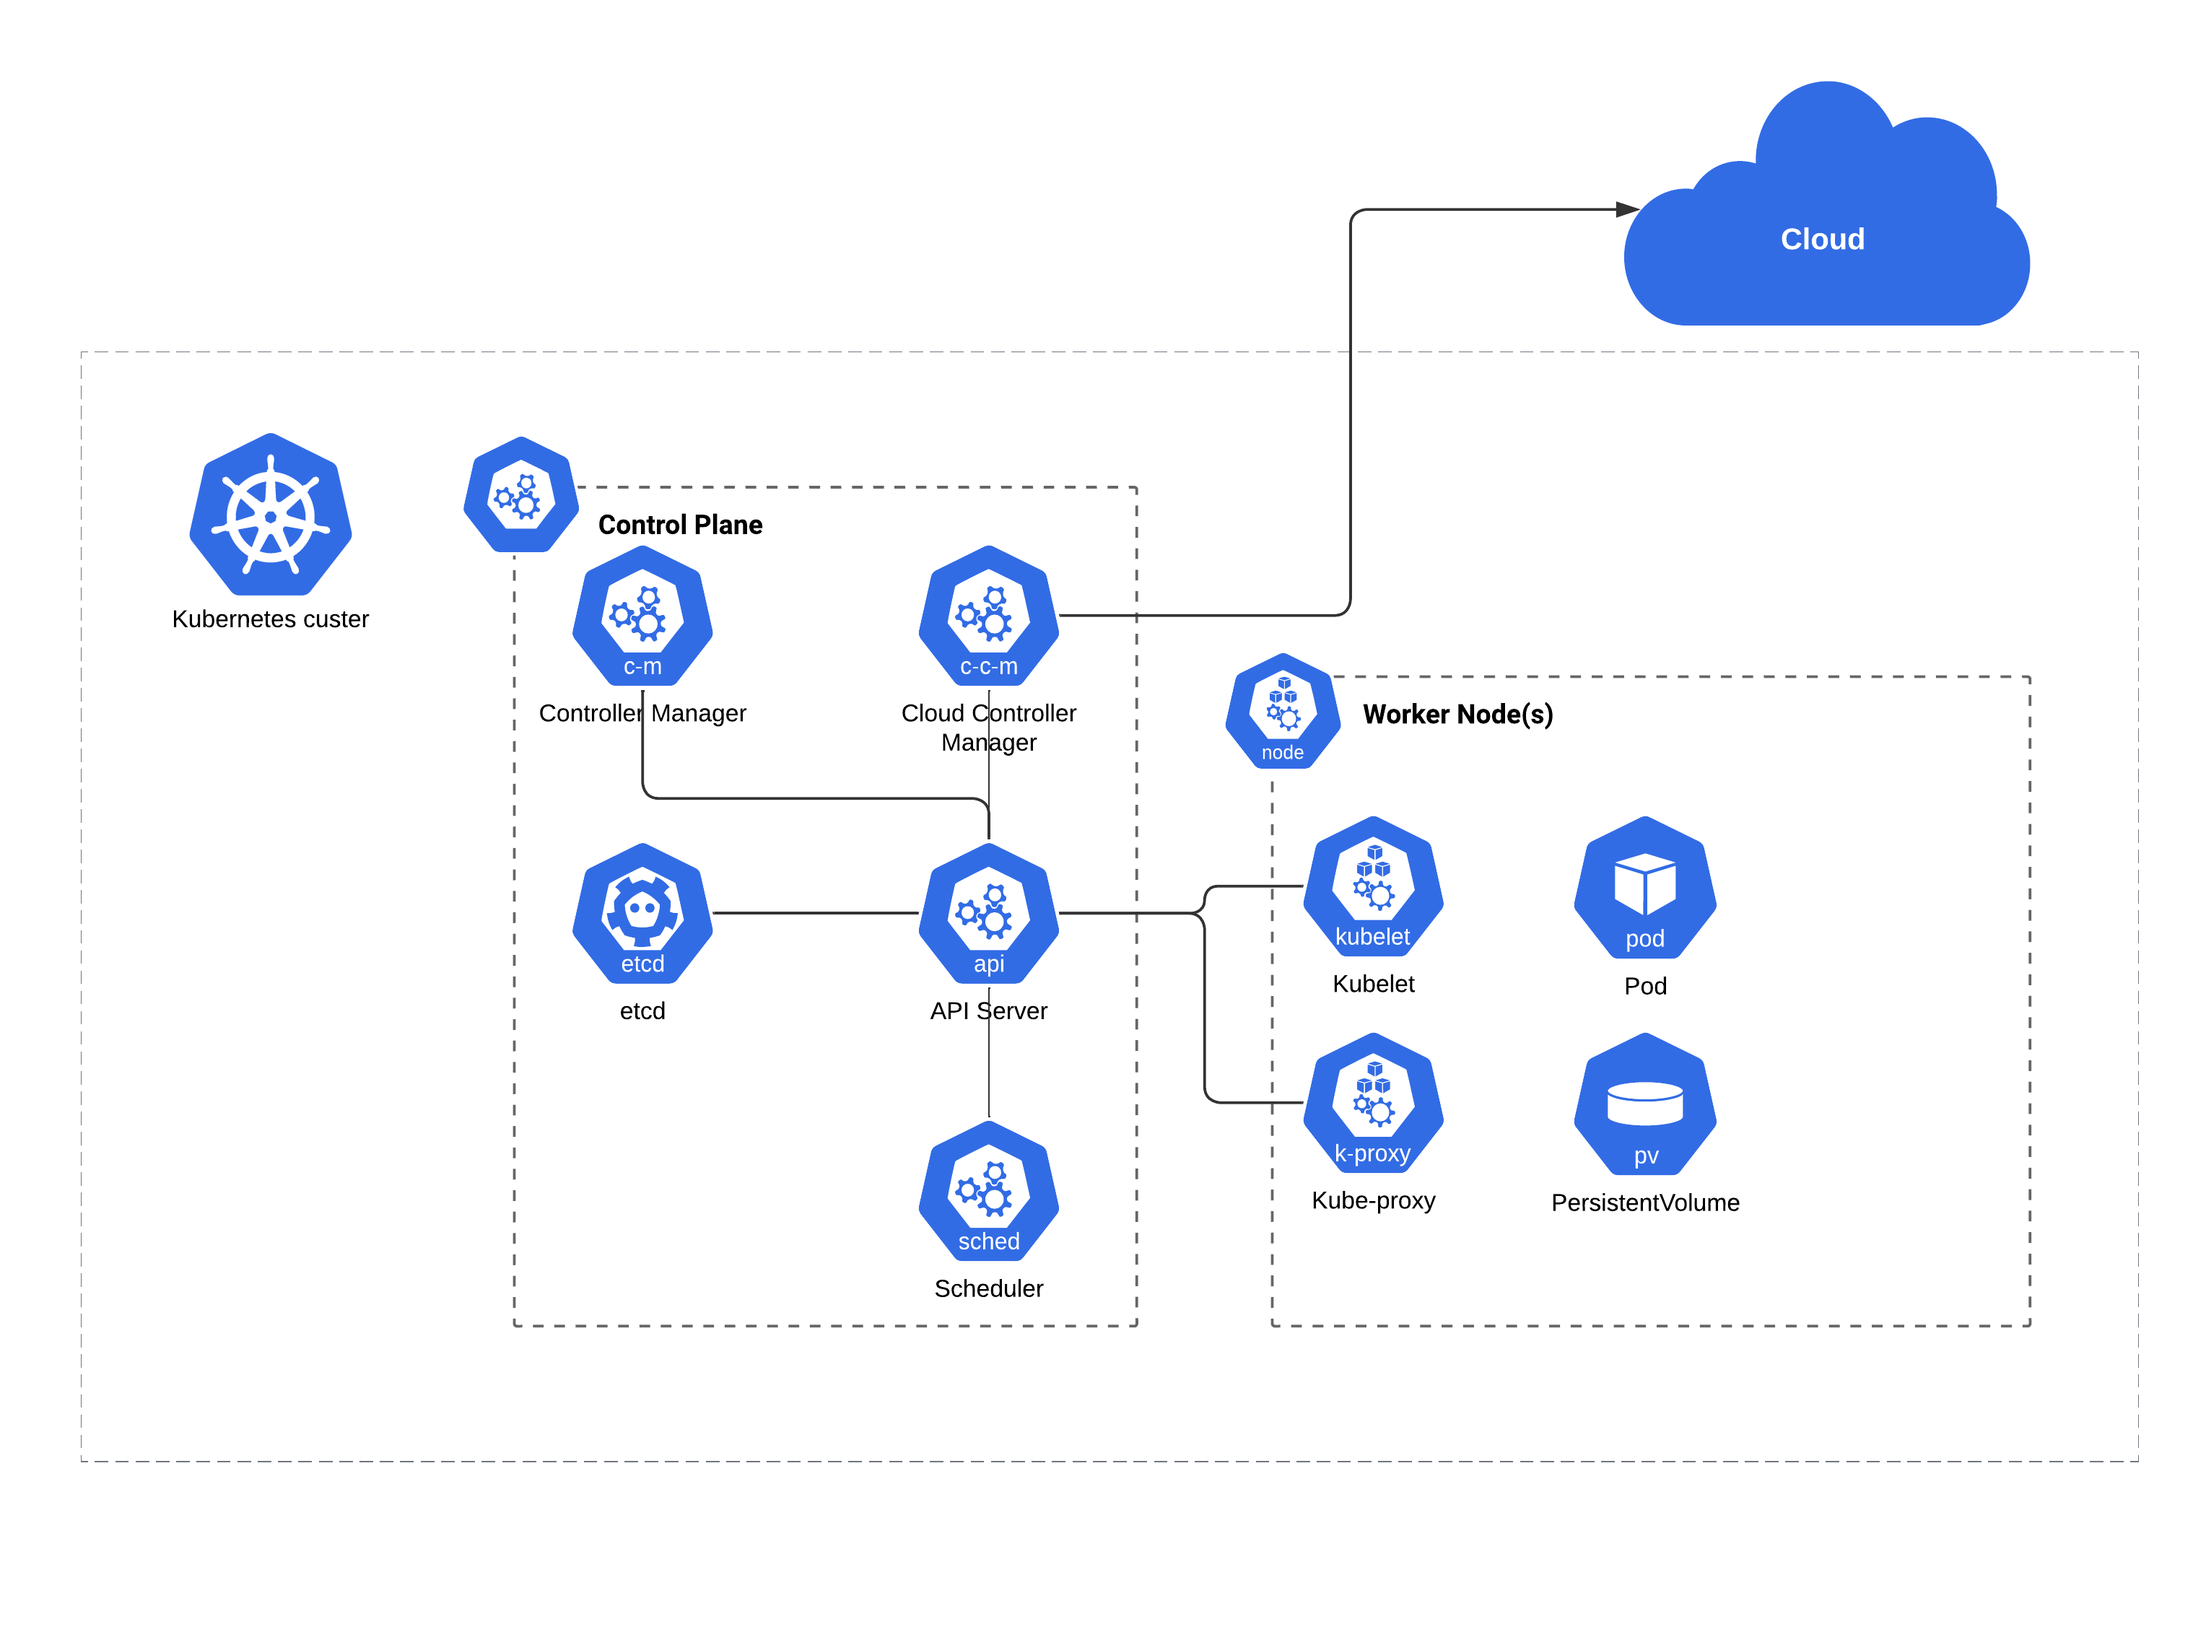
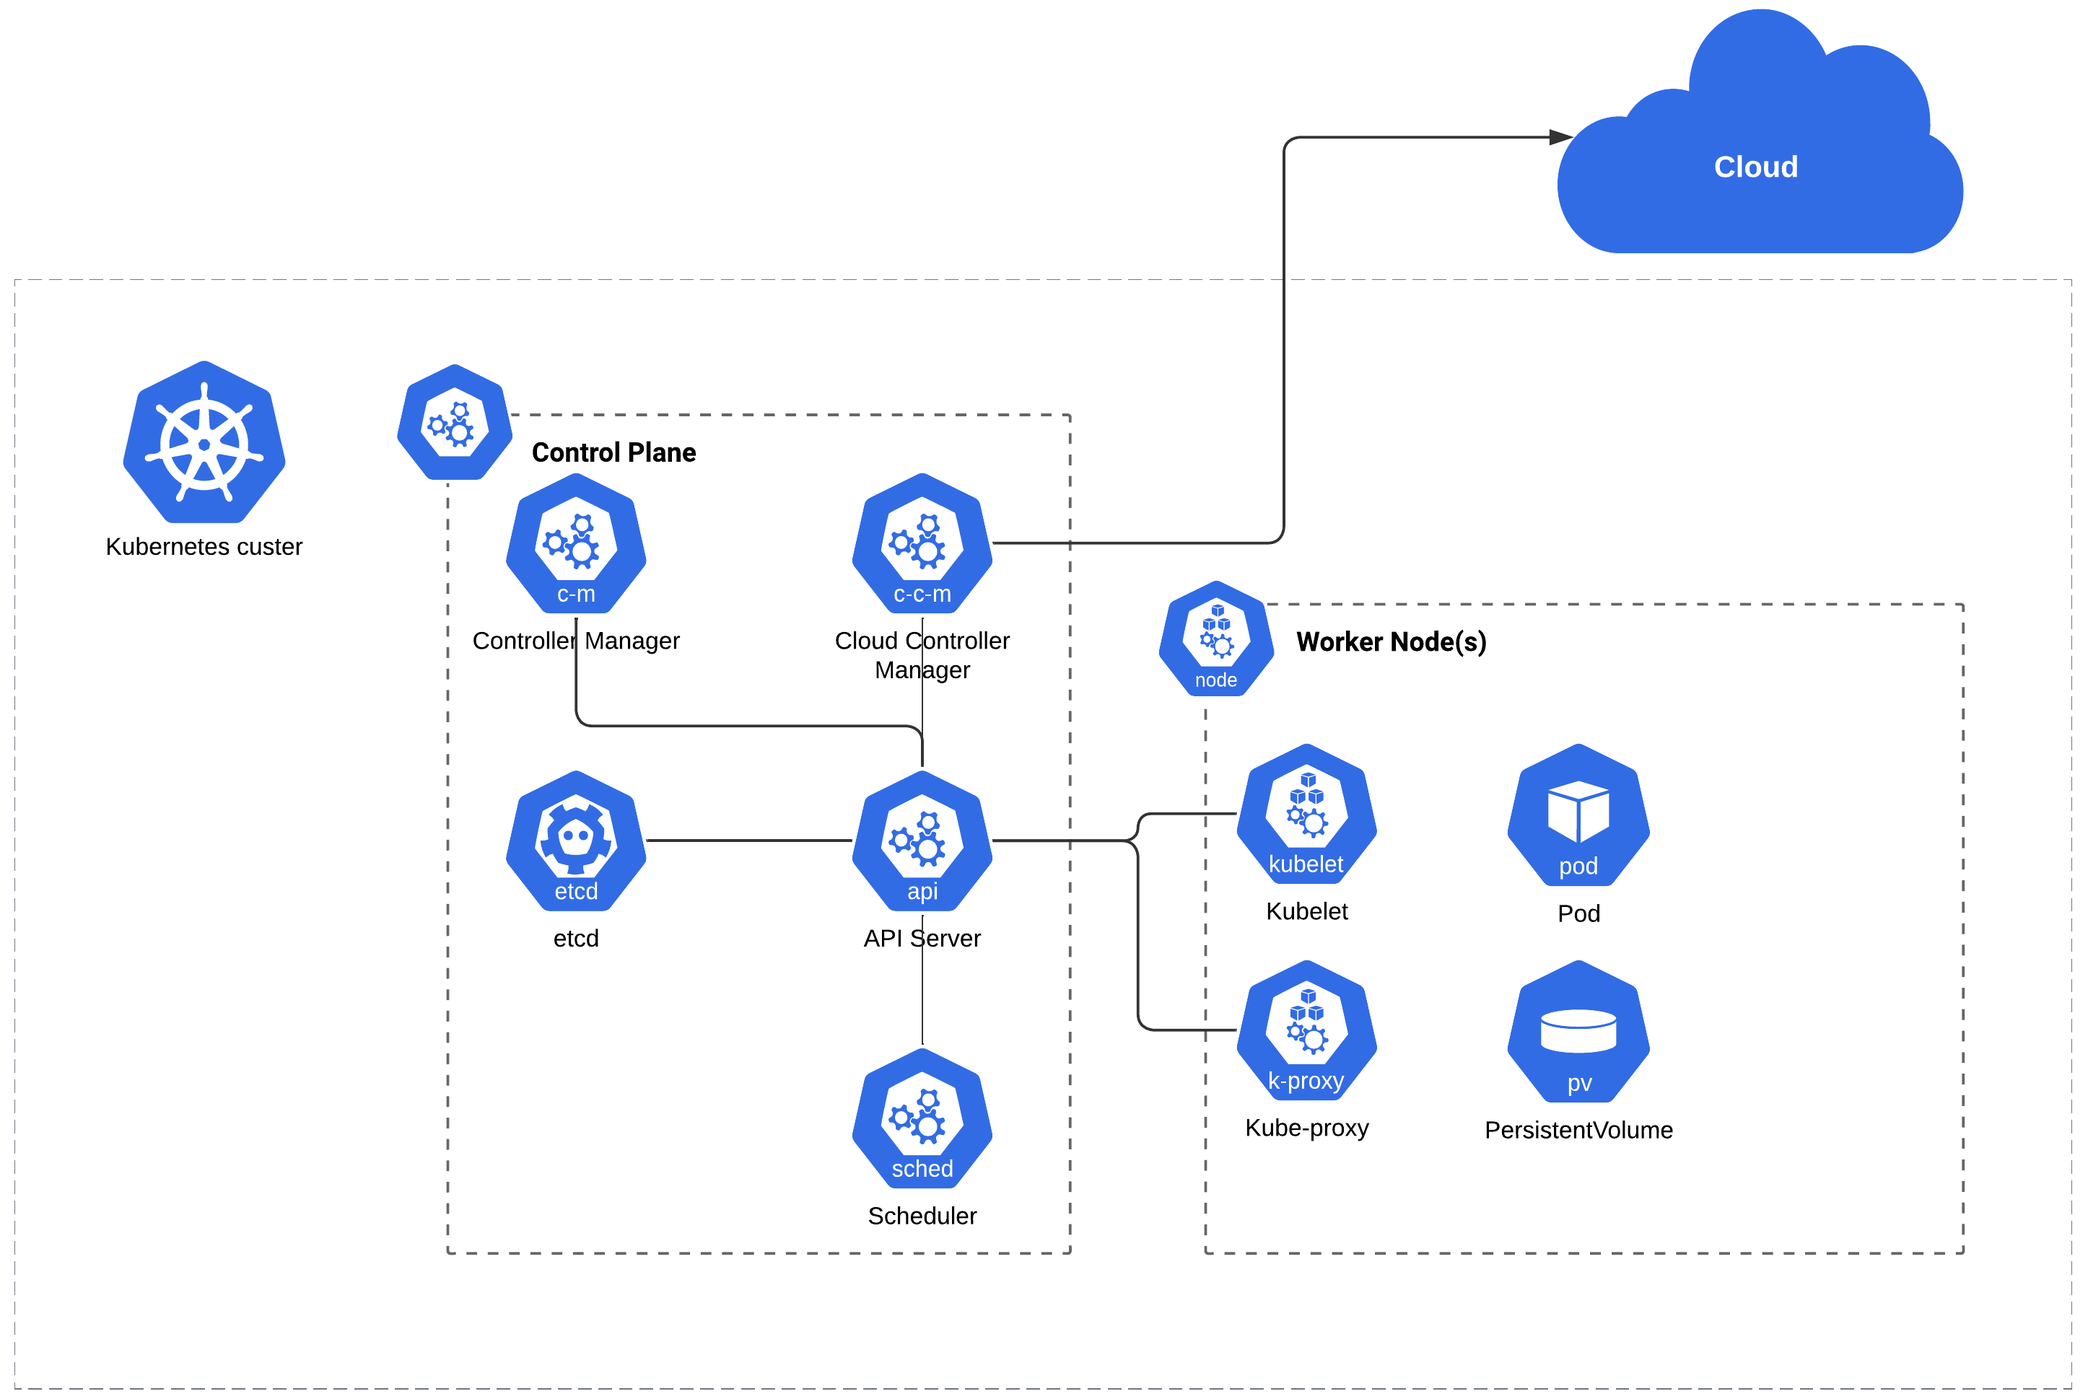
Updates

diff --git a/slides/202402_securisation_conteneur.md b/slides/202402_securisation_conteneur.md
@@ -31,11 +31,11 @@ image: 'https://devpro.github.io/presentations/assets/images/tom-cruise-m-i-2-cl
 
 ---
 
-# Conteneur et infrastructure
+# Conteneur et centre de données
 
 <!-- L'approche traditionnelle des outils de sécurité système ne marche pas avec les conteneurs -->
 
-<img src="https://devpro.github.io/presentations/assets/images/container-inside.png" alt="Anatomy of a Container" class="m-8 ml-70 h-80" />
+<img src="https://devpro.github.io/presentations/assets/images/container-inside.png" alt="Container & datacenter" class="m-8 ml-50 h-100" />
 
 ---
 
@@ -43,7 +43,7 @@ image: 'https://devpro.github.io/presentations/assets/images/tom-cruise-m-i-2-cl
 
 <!-- Clusters Kubernetes -->
 
-TODO
+<img src="https://devpro.github.io/presentations/assets/images/kubernetes-architecture.png" alt="Kubernetes architecture" class="m-8 ml-40 h-100" />
 
 ---
 
